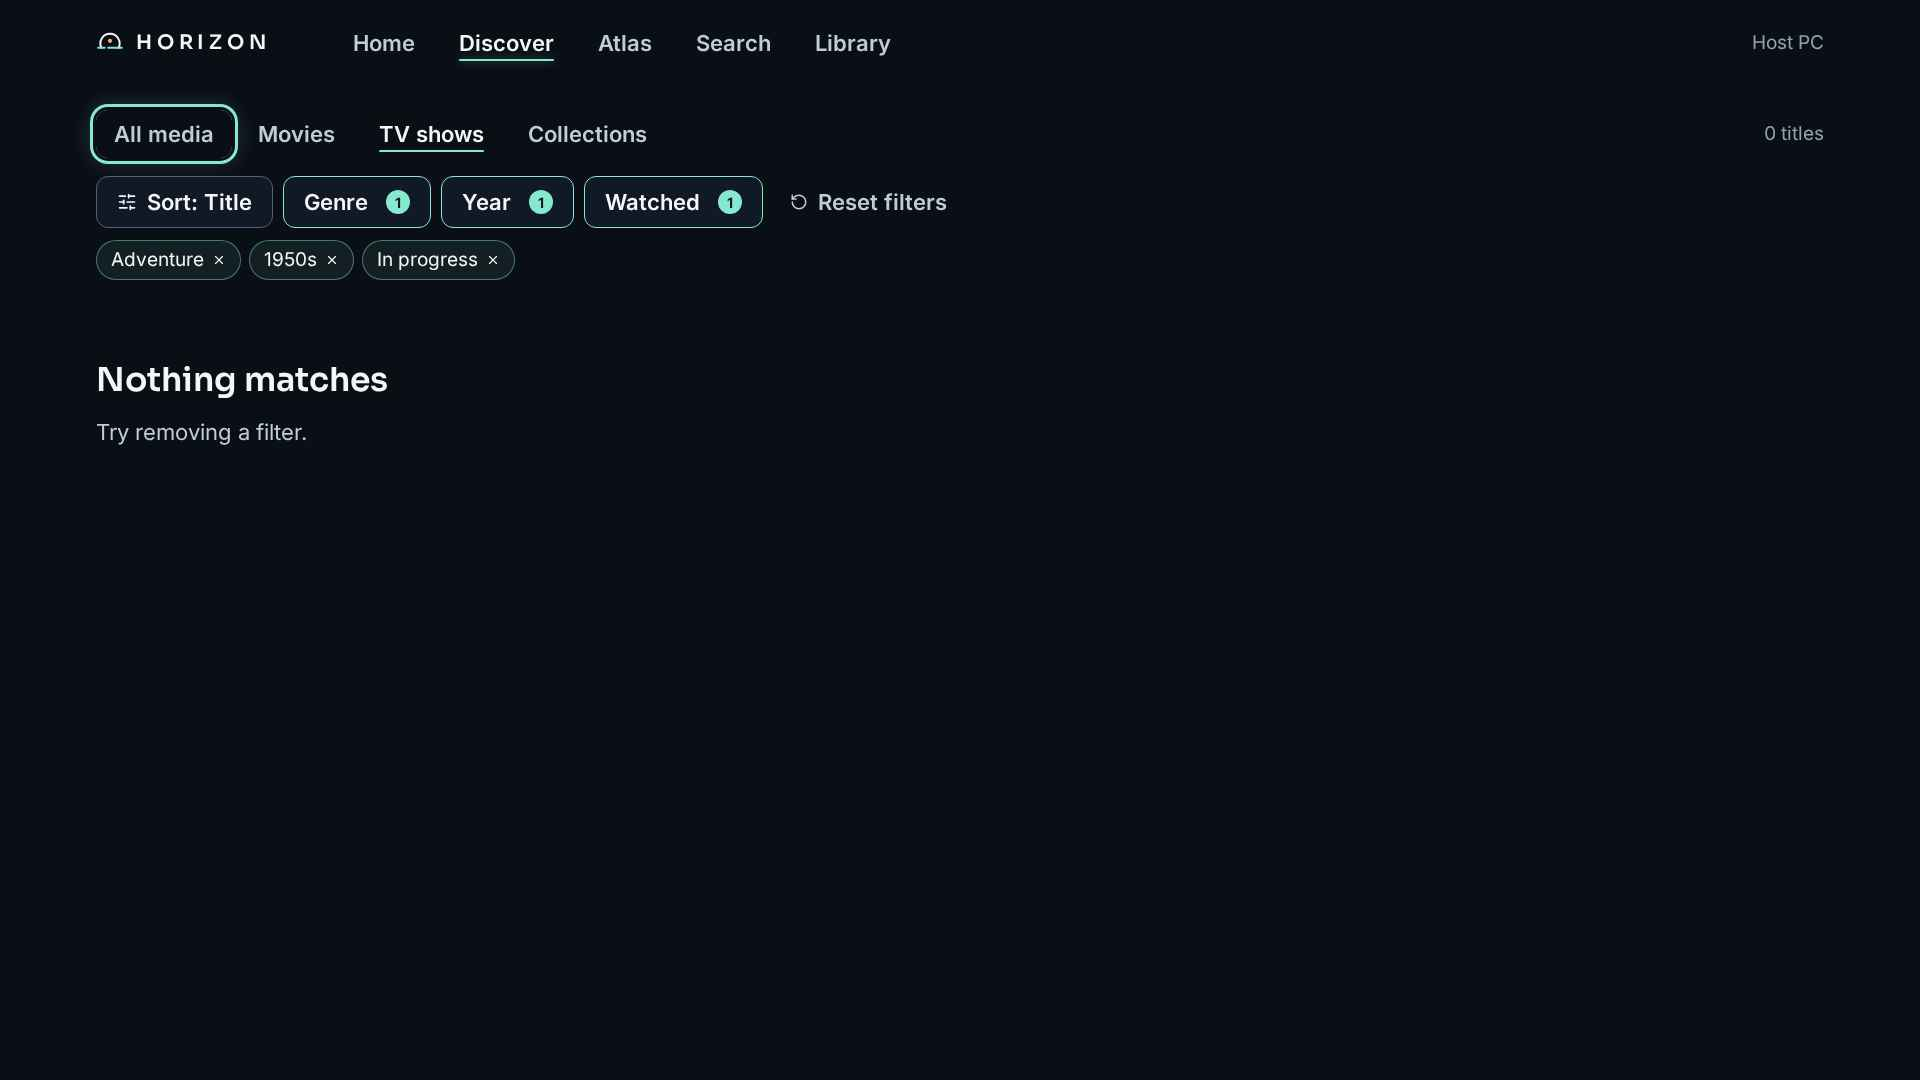
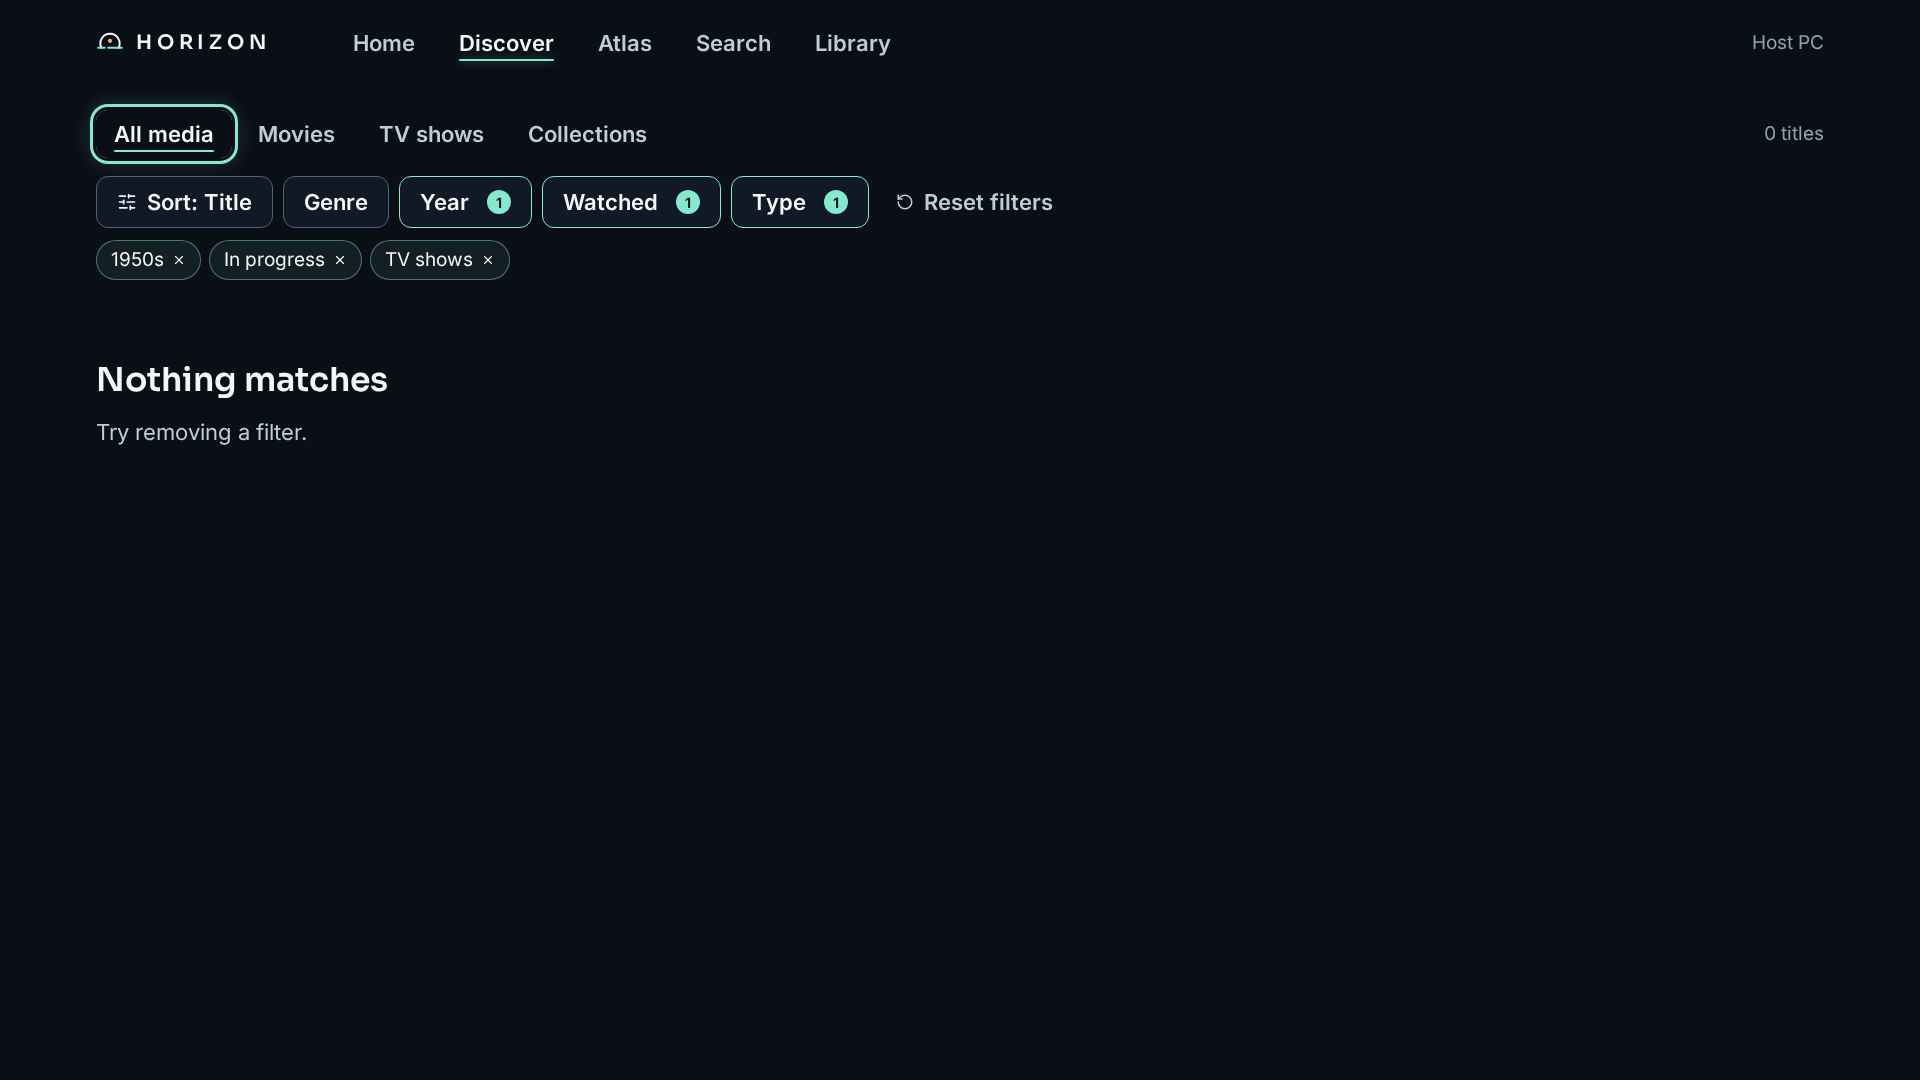
## Horizon Stage 3 is ready for your review (Stage 4 not started) Discover, Search and Library Atlas are built and tested, and the completion report is at `docs/HORIZON_STAGE3_REPORT.md`. All controller testing was simulated in a browser with the keyboard standing in for the controller. Nothing was 
- **Back restores your place:** pressing Back from a title returns you to the exact tile, with the same scroll position, search, sort and filters. This works at every level (Collections → collection → movie). In Atlas you return to the same level, cluster, page and title, in both orbit and grid view. If a title was removed, focus goes to the item now in its place.
- **Typing on a keyboard:** what you type goes into the search without moving focus. Nothing is typed twice, Ctrl shortcuts still work, and the focused on-screen key is clearly highlighted. Right from the keyboard's last column now jumps to the results.
- **Fixes from testing:** the first full test round found 7 navigation bugs, and the retest found 1 more. All are fixed and retested. I also fixed several layout issues: the Atlas orbit view now fits one screen at 1080p and 4K, and its centre ring no longer covers the genre labels.
- **Test results:** 185 server tests pass and 30 live server tests pass. The final browser test passed 96%, and the one remaining focus issue was fixed and checked by hand.
- **Speed:** with a 3,900-file test library, scanning takes about 0.4 s, searching about 8 ms, and Discover's first screen loads in about 1.6 s.

**Not tested:**
- The empty-library screens were checked only by reading the code and by a server test, not in the browser.
- The test browser reaches 3840×1920, not a full 3840×2160.
- Deleting a title while it is open, then pressing Back, was not tried live.
[…]

Changed region(s): [[0.0625, 0.1222, 0.5625, 0.275], [0.0625, 0.1222, 0.125, 0.1528]]

diff --git a/frontend/src/discover/FilterBar.tsx b/frontend/src/discover/FilterBar.tsx
@@ -11,7 +11,7 @@ function OptionSheet({ title, children, onClose }: { title: string; children: Re
   useBack(() => { onClose(); return true; });
   useEffect(() => {
     const prev = document.activeElement as HTMLElement | null;
-    (box.current?.querySelector<HTMLElement>(".dopt[aria-pressed='true']") ?? box.current?.querySelector<HTMLElement>(".dopt, button"))?.focus();
+    (box.current?.querySelector<HTMLElement>(".dopt[aria-pressed='true']") ?? box.current?.querySelector<HTMLElement>(".dopt") ?? box.current?.querySelector<HTMLElement>("button"))?.focus();
     return () => prev?.focus({ preventScroll: true });
   }, []);
   return (

diff --git a/docs/HORIZON_STAGE3_REPORT.md b/docs/HORIZON_STAGE3_REPORT.md
@@ -1,0 +1,86 @@
+# Horizon Stage 3 — Completion report (Discover, Search, Library Atlas)
+
+Status: **ready for your review**. Stage 4 has not been started.
+Date: 2026-06. QA reports: `/app/test_reports/iteration_9.json` (first full pass, 7 bugs found), `iteration_10.json` (retest: 6 fixed, 1 partly fixed; the remaining sheet-focus case was then fixed and checked by hand).
+
+> **All controller testing was SIMULATED** in a desktop Chromium browser. Arrow keys stood in for the D-pad, Enter for A, Escape for B,
+> PageUp/PageDown for LB/RB, and synthetic `PadX`/`PadY` key events for X/Y.
+> **Nothing was tested on a physical Xbox, an Xbox controller, Xbox Edge, a Windows PC, or a real 4K TV.**
+
+## 1. What Stage 3 delivers
+- **Discover** (`/discover`): views for All media, Movies, TV shows and Collections. It has a virtualised poster wall (only the visible rows are in the page, and data loads in pages of 120), a Sort sheet, combinable filters (Genre, Year, Watched, Type) shown as removable chips, Reset filters, and pages for individual collections (from NFO files or folder groups).
+- **Search** (`/search`): searches titles, series and episodes on this PC, offline. The D-pad on-screen keyboard has letters, digits, a punctuation row (`' - . : & !`), Space, Backspace and Clear. X deletes and Y types a space.
+- **Library Atlas** (`/atlas`): an orbit map. The inner ring is media type, the middle ring genres, the outer ring collections, and overflow folds into a "More …" node. A zooms into a cluster whose titles sit on 3 orbits (8, 12 and 16 per page), with LB/RB to page. B zooms out. A Grid view toggle is remembered.
+
+## 2. Your acceptance choices and how they were met
+### 2A — Back restores the exact tile
+| Where | Behaviour | Verified |
+|---|---|---|
+| Discover | Each result set (view + sort + filters + collection) has its own remembered position: tile index plus exact scroll. It is applied only on Back, so Collections → collection → movie → Back → Back lands on the correct tile at each level. | Index 146/154/162 (beyond the first 120-item data page), scrollY restored exactly; collection index 10 restored after a nested Back |
+| Discover controls | Changing a tab, sort or filter never moves focus off the control you used. The filter sheet stays open and focused while you toggle options. Removing a chip moves focus to the next chip (or to Sort if none are left), and Reset moves focus to Sort. | Yes; focus never fell to an empty page |
+| Search | The query is kept in the URL (`?q=`). The same result is refocused and the scroll restored. Restore happens only on Back; a fresh visit starts on the keyboard. | Yes, including episode results |
+| Atlas | The zoom level, cluster, page and focused title are restored in both orbit and grid mode, with no zoom animation on return. | Yes (Crime → page 2 → title → Back) |
+| Removed titles | Discover and Search fall back to the item now at the same position (or the last one). Atlas clamps to the nearest valid node or page, or zooms out if the cluster no longer exists. | Code path reviewed; not exercised against a real deletion in the browser |
+
+### 3A — Physical keyboard with the OSK visible
+- Typing on a physical keyboard goes into the query while focus stays where it is, whether on an OSK key or a result. Nothing is typed twice: fast bursts like "northern" were checked.
+- Backspace on a result deletes one character and does not navigate back. Escape still goes back.
+- Typing inside the input field is native: the cursor, selection and Ctrl+A all behave normally. Ctrl, Alt and Meta shortcuts are never captured.
+- Typed letters keep their case ("NoR" stays "NoR"). The focused OSK key is shown as a light key with an accent ring, scaled 1.06×.
+- Right from the last key of any OSK row moves to the first result, or to the result you were on before.
+
+### 1A — Edge cases
+| Case | Result |
+|---|---|
+| Empty library | Backend `test_empty_library` passes. The UI empty states (`discover-empty`, `atlas-empty` with an "Add media folder" button) were checked **by reading the code only**; we did not clear your libraries. "Nothing matches" (a filter with no results) was tested in the browser. |
+| Missing metadata | Monogram and arc fallback art, an "Uncategorized" genre and "Year unknown" were exercised by the synthetic library. |
+| Large collections | A synthetic library of 3,900 files (3,003 movies, 153 shows, 908 episodes, 30+ collections) was used throughout. |
+| Reduced motion | Emulated `prefers-reduced-motion: reduce` showed no smooth scrolling and no zoom or entrance animations, and navigation still worked. |
+| 1080p / 4K | Tested at 1920×1080 and at 3840×1920 (the test browser's maximum height). The Atlas orbit view now fits one screen without scrolling at both sizes. |
+
+## 3. Bugs found by QA and fixed
+1. Discover kept a single memory slot, so nested Back steps and sort or tab changes focused the wrong tile. It now has a memory per result set, applied only on Back.
+2. The filter sheet re-mounted on every toggle, so focus reset to Done. Removing a chip or pressing Reset dropped focus entirely. The previous facets are now kept while the new result loads, and focus moves to a stable neighbour.
+3. The OSK had no D-pad path to the results. An explicit Right-edge exit was added.
+4. Atlas grid mode returned focus to the toolbar after Back. It now returns to the title.
+5. Up from Discover's first row jumped to the top nav. It now goes to Sort, or to the selected tab in the Collections list.
+6. Sheets opened on Done. They now open on the selected option, or the first option if none is selected.
+7. Discover focused "All media" even when another view was selected. It now focuses the selected tab.
+- Design fixes: the Atlas orbit view fits within 100 vh, and the inner ring (Movies / TV shows) moved to 9 and 3 o'clock so it no longer covers the genre labels. The grid InfoPanel stays visible while scrolling. The hint text now matches each mode. The top nav is solid on scrolling screens, and the Type filter is hidden inside a collection.
+
+## 4. Test results
+| Suite | Result |
+|---|---|
+| Backend unit (`pytest tests`) | **185 passed** |
+| Live API (`MC_LIVE_URL=… pytest tests_live -n 0`) | **30 passed**, run against the standard sample libraries. The large synthetic library was detached for this run because the live tests check exact sample counts, then re-attached. |
+| Browser QA, iteration 9 | About 78% passed; 7 bugs found |
+| Browser QA, iteration 10 | 96% passed. The one remaining item, sheet focus when nothing is selected, was then fixed and checked by hand. |
+| Regression (Phase 0, Stages 1–2) | Home filmstrip, movie and show detail, Episode Journey, the player (play, and B to exit) and Settings all passed |
+
+## 5. Performance (preview container, synthetic 3,900-file library)
+| Measure | Value |
+|---|---|
+| Full scan of 3,900 files (no probing) | ~0.4 s |
+| `GET /api/discover` (first 120, title sort) | 25 ms, 31 KB |
+| `GET /api/discover` (genre filter + added sort) | 35 ms |
+| `GET /api/search?q=test` | 8 ms |
+| `GET /api/atlas` | 80 ms, 43 KB |
+| Discover first grid render, cold, through the preview URL | ~1.6 s |
+| Grid DOM size | About 6 rows × 8 cards, plus overscan, at any scroll depth |
+
+## 6. Screenshots
+`/app/docs/screenshots/stage3/`: discover_all_1080p, discover_all_4k, discover_collections_1080p, discover_collection_detail_1080p, discover_nothing_matches_1080p, search_results_1080p, search_results_4k, atlas_overview_1080p, atlas_overview_4k, atlas_cluster_1080p, atlas_grid_overview_1080p, atlas_grid_cluster_1080p.
+
+## 7. Outstanding issues and notes
+- Opening Search from the top nav leaves focus on the nav link, like every other screen. Down then enters the keyboard near column F rather than at A. This is unchanged app-wide behaviour.
+- In the player, the first B press hides the controls and the second exits. This is the intended Stage 2 behaviour.
+- Typing while focus is on the top nav (rather than inside the Search page) does not edit the query.
+
+## 8. Tests that could not be performed
+- A physical Xbox Series X|S, an Xbox controller over the Gamepad API, and Xbox Edge.
+- Native Windows 10/11 runs and browsers on Windows.
+- A real 4K TV at viewing distance, and HDR.
+- A true 3840×2160 viewport (the test browser stops at 3840×1920).
+- Real NAS or UNC libraries, and the behaviour when a source goes offline mid-session (covered only by a backend unit test).
+- A live deletion of a title between opening it and pressing Back (code path only).
+- The empty-library UI in the browser (checked by reading the code, plus a backend unit test).

diff --git a/memory/PRD.md b/memory/PRD.md
@@ -63,3 +63,11 @@ Host = loopback (+Host header check); LAN devices = PIN pairing → token (cooki
 - Fixes: dt-primary focus ring, data-nav-down (actions->season tab), season tabs edge stop, ep fallback arcs (no dup text), unified remaining label, player next -> osd
 - Tests: 174 unit, 30 live (-n 0), QA iteration 7+8 100%. Report docs/HORIZON_STAGE2_REPORT.md, screenshots docs/screenshots/stage2/
 - Awaiting user approval before Stage 3. No hardware (Xbox/Windows/4K TV) validation done.
+
+## Horizon Stage 3 (2026-06) — Discover, Search, Library Atlas
+- Discover: virtualised poster wall, views, sort sheet, combinable filters/chips, collections (NFO/folder); per-result-set focus memory (index+scroll) applied on Back only
+- Search: offline search, D-pad OSK (+punctuation row), physical typing without focus steal/duplicates, OSK Right-edge -> results, restore on Back
+- Atlas: orbit rings (type/genre/collection, More folding), zoom into clusters, LB/RB paging, grid mode; restores level/cluster/page/title; fits 100vh
+- QA iteration 9 (7 bugs) -> all fixed; iteration 10 96% + last item fixed; pytest 185 unit, 30 live pass
+- Report docs/HORIZON_STAGE3_REPORT.md, screenshots docs/screenshots/stage3/
+- NOT done: physical Xbox/Windows/4K TV testing. Awaiting user approval before Stage 4
